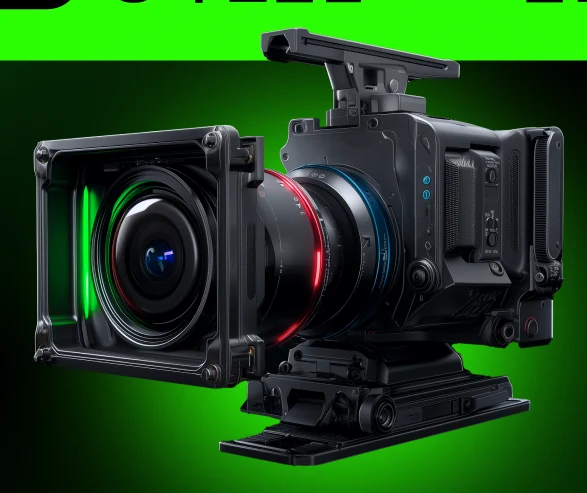
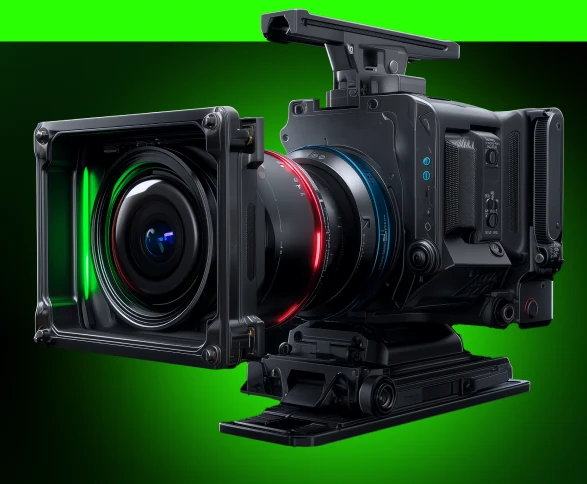
혜택 카드 이미지에 제목 글자가 물린 것 수정 (같은 실수 6회차)
카드 그래픽 크롭이 위쪽 제목(y+74.1 까지)을 물어서 초록 알약 글자 밑에
어두운 유령 자국이 보였다. 지난번엔 아래 설명만 확인하고 위 제목은 안 봤다.

-> y0 = max(그래픽top, 제목bottom+5) 로 다시 잘랐다.
   1~5번 카드 조정, 6번은 원래 제목 아래라 그대로.

docs 에 반복 실수 6회를 표로 남기고 규칙을 적었다:
자르기 전에 위/아래 글자 노드 y 를 모두 조회할 것.

diff --git a/offline.html b/offline.html
@@ -575,31 +575,31 @@
     <span class="bn-pill" style="left:calc(154.0/1920 * 100%);top:calc(21592.9/24520.2 * 100%)" aria-hidden="true"></span>
     <p class="bn-n" style="left:calc(209.9/1920 * 100%);top:calc(21608.9/24520.2 * 100%)">01</p>
     <p class="bn-t" style="left:calc(319.3/1920 * 100%);top:calc(21611.6/24520.2 * 100%)">다양한 레벨과 협업 가능</p>
-    <span class="bn-i" style="left:calc(295.7/1920 * 100%);top:calc(21668.1/24520.2 * 100%);width:calc(425.5/1920 * 100%);height:calc(506/24520.2 * 100%)"><img src="assets/img/offline/b5-bn1.webp" width="425" height="506" loading="lazy" alt=""></span>
+    <span class="bn-i" style="left:calc(295.7/1920 * 100%);top:calc(21690.7/24520.2 * 100%);width:calc(425.5/1920 * 100%);height:calc(483/24520.2 * 100%)"><img src="assets/img/offline/b5-bn1.webp" width="425" height="483" loading="lazy" alt=""></span>
     <p class="bn-d" style="left:calc(154.0/1920 * 100%);top:calc(22180.5/24520.2 * 100%);width:calc(750.1/1920 * 100%)">영상, 더 이상 혼자 하지 마세요! 동료 수강생 혹은 타 기수와 협업이 가능하며<br>다양한 레벨의 팀원과 함께 작품을 만들어볼 수 있어요!</p>
     <span class="bn" style="left:calc(1000.2/1920 * 100%);top:calc(21564.3/24520.2 * 100%)" aria-hidden="true"></span>
     <span class="bn-pill" style="left:calc(1029.2/1920 * 100%);top:calc(21592.9/24520.2 * 100%)" aria-hidden="true"></span>
     <p class="bn-n" style="left:calc(1085.0/1920 * 100%);top:calc(21608.9/24520.2 * 100%)">02</p>
     <p class="bn-t" style="left:calc(1194.4/1920 * 100%);top:calc(21611.6/24520.2 * 100%)">장비 렌탈샵 20% 할인</p>
-    <span class="bn-i" style="left:calc(1087.3/1920 * 100%);top:calc(21671.4/24520.2 * 100%);width:calc(587.2/1920 * 100%);height:calc(493/24520.2 * 100%)"><img src="assets/img/offline/b5-bn2.webp" width="587" height="493" loading="lazy" alt=""></span>
+    <span class="bn-i" style="left:calc(1087.3/1920 * 100%);top:calc(21690.7/24520.2 * 100%);width:calc(587.2/1920 * 100%);height:calc(483/24520.2 * 100%)"><img src="assets/img/offline/b5-bn2.webp" width="587" height="483" loading="lazy" alt=""></span>
     <p class="bn-d" style="left:calc(1029.2/1920 * 100%);top:calc(22180.5/24520.2 * 100%);width:calc(750.1/1920 * 100%)">안그래도 비싼 촬영 장비, FVA 아카데미 제휴 업체(캠즈 렌탈) 할인으로<br>촬영 비용 부담을 덜어내세요! (camzrental.co.kr)</p>
     <span class="bn" style="left:calc(125.0/1920 * 100%);top:calc(22517.6/24520.2 * 100%)" aria-hidden="true"></span>
     <span class="bn-pill" style="left:calc(154.0/1920 * 100%);top:calc(22546.2/24520.2 * 100%)" aria-hidden="true"></span>
     <p class="bn-n" style="left:calc(209.9/1920 * 100%);top:calc(22562.2/24520.2 * 100%)">03</p>
     <p class="bn-t" style="left:calc(319.3/1920 * 100%);top:calc(22564.9/24520.2 * 100%)">무.제.한. 온라인 피드백</p>
-    <span class="bn-i" style="left:calc(276.8/1920 * 100%);top:calc(22615.8/24520.2 * 100%);width:calc(520.2/1920 * 100%);height:calc(512/24520.2 * 100%)"><img src="assets/img/offline/b5-bn3.webp" width="520" height="512" loading="lazy" alt=""></span>
+    <span class="bn-i" style="left:calc(276.8/1920 * 100%);top:calc(22644.0/24520.2 * 100%);width:calc(520.2/1920 * 100%);height:calc(483/24520.2 * 100%)"><img src="assets/img/offline/b5-bn3.webp" width="520" height="483" loading="lazy" alt=""></span>
     <p class="bn-d" style="left:calc(154.0/1920 * 100%);top:calc(23133.8/24520.2 * 100%);width:calc(750.1/1920 * 100%)">수강 도중에는 무제한 피드백, 수강 종료 후에는 기한 없이<br>3회 작품 피드백을 받으실 수 있어요!</p>
     <span class="bn" style="left:calc(1000.2/1920 * 100%);top:calc(22517.6/24520.2 * 100%)" aria-hidden="true"></span>
     <span class="bn-pill" style="left:calc(1029.2/1920 * 100%);top:calc(22546.2/24520.2 * 100%)" aria-hidden="true"></span>
     <p class="bn-n" style="left:calc(1085.0/1920 * 100%);top:calc(22562.2/24520.2 * 100%)">04</p>
     <p class="bn-t" style="left:calc(1194.4/1920 * 100%);top:calc(22564.9/24520.2 * 100%)">촬영시 감독님 현장 코칭</p>
-    <span class="bn-i" style="left:calc(1140.8/1920 * 100%);top:calc(22627.0/24520.2 * 100%);width:calc(555.9/1920 * 100%);height:calc(497/24520.2 * 100%)"><img src="assets/img/offline/b5-bn4.webp" width="555" height="497" loading="lazy" alt=""></span>
+    <span class="bn-i" style="left:calc(1140.8/1920 * 100%);top:calc(22644.0/24520.2 * 100%);width:calc(555.9/1920 * 100%);height:calc(483/24520.2 * 100%)"><img src="assets/img/offline/b5-bn4.webp" width="555" height="483" loading="lazy" alt=""></span>
     <p class="bn-d" style="left:calc(1029.2/1920 * 100%);top:calc(23133.8/24520.2 * 100%);width:calc(750.1/1920 * 100%)">작품 촬영시 정주 감독님의 현장 지도와 즉각적인 피드백을<br>받으실 수 있어요! (3개월 수강권 한정)</p>
     <span class="bn" style="left:calc(125.0/1920 * 100%);top:calc(23470.9/24520.2 * 100%)" aria-hidden="true"></span>
     <span class="bn-pill" style="left:calc(154.0/1920 * 100%);top:calc(23499.5/24520.2 * 100%)" aria-hidden="true"></span>
     <p class="bn-n" style="left:calc(209.9/1920 * 100%);top:calc(23515.5/24520.2 * 100%)">05</p>
     <p class="bn-t" style="left:calc(319.3/1920 * 100%);top:calc(23518.2/24520.2 * 100%)">협업 가능 촬영감독 연계</p>
-    <span class="bn-i" style="left:calc(292.5/1920 * 100%);top:calc(23578.0/24520.2 * 100%);width:calc(509.0/1920 * 100%);height:calc(488/24520.2 * 100%)"><img src="assets/img/offline/b5-bn5.webp" width="509" height="488" loading="lazy" alt=""></span>
+    <span class="bn-i" style="left:calc(292.5/1920 * 100%);top:calc(23597.3/24520.2 * 100%);width:calc(509.0/1920 * 100%);height:calc(483/24520.2 * 100%)"><img src="assets/img/offline/b5-bn5.webp" width="509" height="483" loading="lazy" alt=""></span>
     <p class="bn-d" style="left:calc(154.0/1920 * 100%);top:calc(24087.1/24520.2 * 100%);width:calc(750.1/1920 * 100%)">포트폴리오 영상 제작시 협업 가능한<br>촬영감독 리스트를 보유중이에요!</p>
     <span class="bn" style="left:calc(1000.2/1920 * 100%);top:calc(23470.9/24520.2 * 100%)" aria-hidden="true"></span>
     <span class="bn-pill" style="left:calc(1029.2/1920 * 100%);top:calc(23499.5/24520.2 * 100%)" aria-hidden="true"></span>

diff --git a/docs/오프라인_피그마_실측.md b/docs/오프라인_피그마_실측.md
@@ -179,3 +179,20 @@ SECRET CLUB FOR / FILMMAKERS → 📹 수강생 만족도 100% →
 원본 렌더는 `~/.claude/jobs/bdbafd6e/tmp/blk6_full.png` (1920×13755, 1:1)에 받아뒀다.
 **사진을 자를 때는 반드시 아래 글자 노드의 y 를 먼저 확인하고 그 앞에서 끊을 것.**
 (마스코트·블롭·포트폴리오·collage2·혜택카드에서 다섯 번 같은 실수를 했다)
+
+## 🔴 반복한 실수 — 그래픽 자를 때 글자를 문다 (6회)
+
+원본 렌더에서 그래픽만 잘라 쓸 때, **위아래 글자 노드를 둘 다** 확인하지 않으면
+글자 일부가 이미지에 구워져 실제 텍스트와 겹쳐 유령처럼 보인다.
+
+| 회차 | 대상 | 문 방향 |
+|---|---|---|
+| 1 | b4-mascot | 배경(알파 없음) |
+| 2 | b5-radar | 배경(알파 없음) |
+| 3 | b5-pass 블롭 | 배경 + 아래 「3개월」 |
+| 4 | b5-portfolio | 아래 문구 |
+| 5 | b5-bn1~6 | 아래 설명 |
+| 6 | b5-bn1~6 | **위 제목** ← 아래만 보고 위를 안 봤다 |
+
+**규칙: 자르기 전에 그 구간의 위/아래 글자 노드 y 를 모두 조회하고,
+`y0 = max(그래픽top, 위글자bottom+5)`, `y1 = min(그래픽bottom, 아래글자top-6)` 으로 끊는다.**
